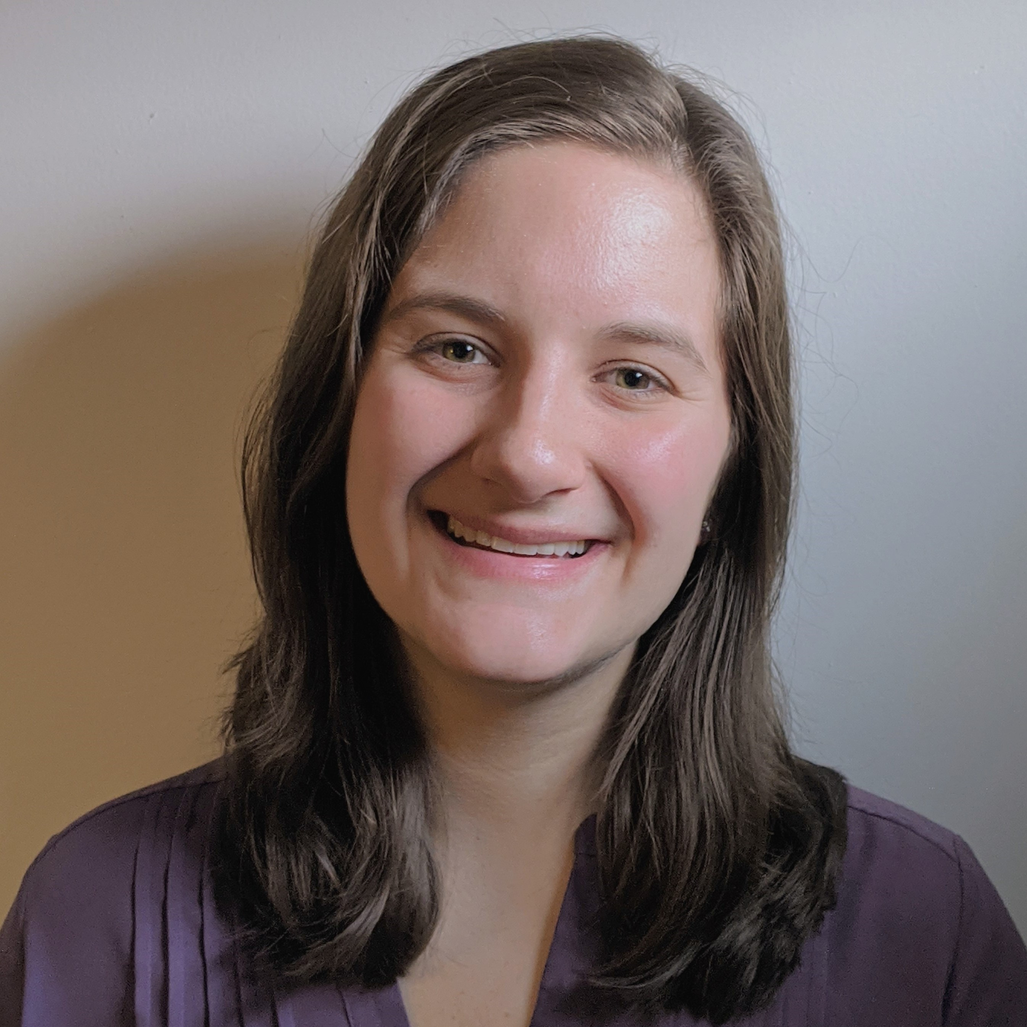
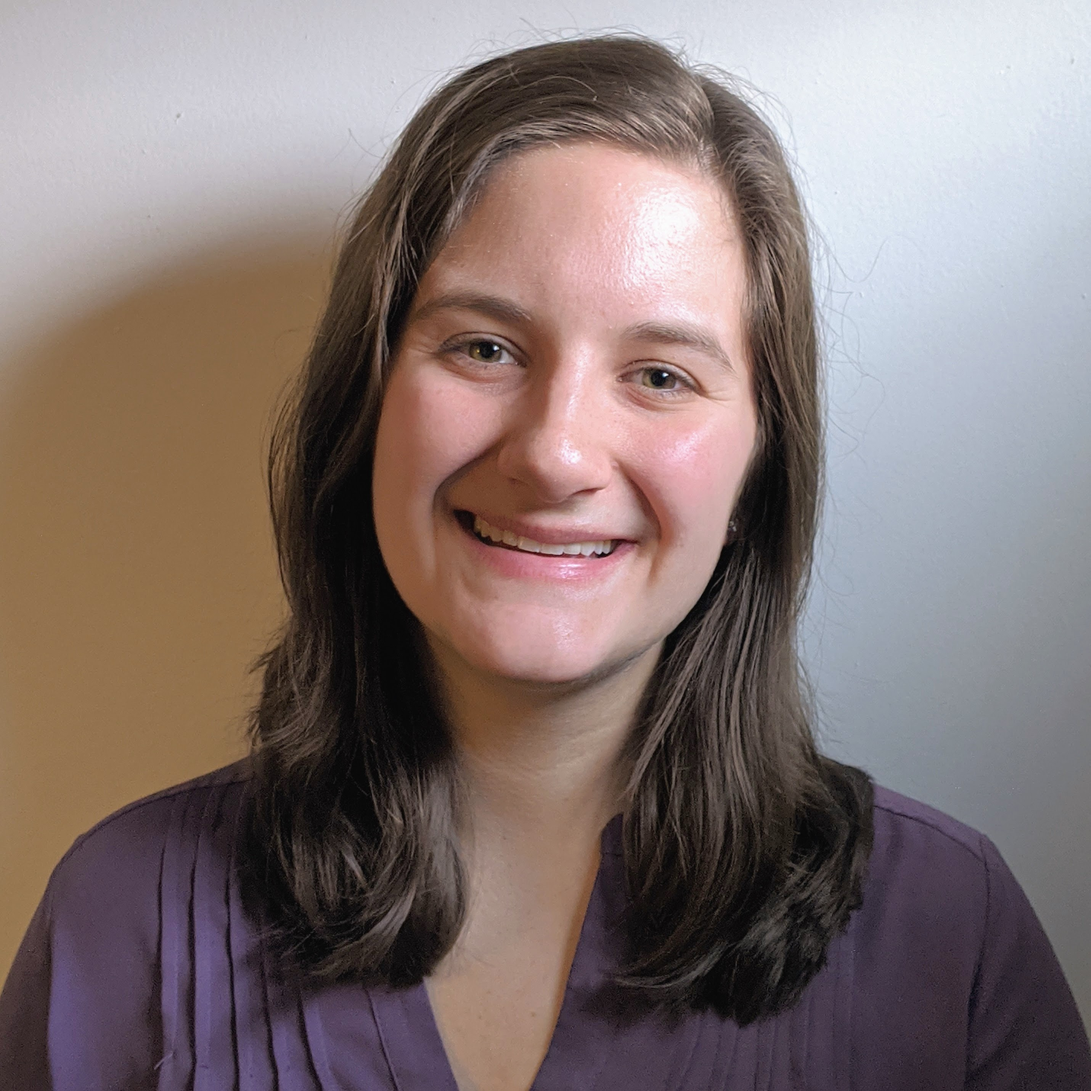
update photo

diff --git a/public/post/2015-07-23-r-rmarkdown/index.html b/public/post/2015-07-23-r-rmarkdown/index.html
@@ -684,7 +684,7 @@ Figure 1: A fancy pie chart.
   <div class="media author-card" itemscope itemtype="http://schema.org/Person">
     
       
-      <img class="portrait mr-3" src="/authors/admin/avatar_hucb4acde1650eb7f35dd36d19a230ff30_990215_250x250_fill_q90_lanczos_center.jpg" itemprop="image" alt="Avatar">
+      <img class="portrait mr-3" src="/authors/admin/avatar_hu2723e86155a1f90338e81c98aedf2ef9_773305_250x250_fill_q90_lanczos_center.jpg" itemprop="image" alt="Avatar">
     
 
     <div class="media-body">

diff --git a/public/post/jupyter/index.html b/public/post/jupyter/index.html
@@ -709,7 +709,7 @@ rm Untitled.md
   <div class="media author-card" itemscope itemtype="http://schema.org/Person">
     
       
-      <img class="portrait mr-3" src="/authors/admin/avatar_hucb4acde1650eb7f35dd36d19a230ff30_990215_250x250_fill_q90_lanczos_center.jpg" itemprop="image" alt="Avatar">
+      <img class="portrait mr-3" src="/authors/admin/avatar_hu2723e86155a1f90338e81c98aedf2ef9_773305_250x250_fill_q90_lanczos_center.jpg" itemprop="image" alt="Avatar">
     
 
     <div class="media-body">

diff --git a/public/outreachmaterials/oysteranatomy/index.html b/public/outreachmaterials/oysteranatomy/index.html
@@ -674,7 +674,7 @@
   <div class="media author-card" itemscope itemtype="http://schema.org/Person">
     
       
-      <img class="portrait mr-3" src="/authors/admin/avatar_hucb4acde1650eb7f35dd36d19a230ff30_990215_250x250_fill_q90_lanczos_center.jpg" itemprop="image" alt="Avatar">
+      <img class="portrait mr-3" src="/authors/admin/avatar_hu2723e86155a1f90338e81c98aedf2ef9_773305_250x250_fill_q90_lanczos_center.jpg" itemprop="image" alt="Avatar">
     
 
     <div class="media-body">

diff --git a/public/outreachmaterials/shinyapp_nbayoysters/index.html b/public/outreachmaterials/shinyapp_nbayoysters/index.html
@@ -676,7 +676,7 @@
   <div class="media author-card" itemscope itemtype="http://schema.org/Person">
     
       
-      <img class="portrait mr-3" src="/authors/admin/avatar_hucb4acde1650eb7f35dd36d19a230ff30_990215_250x250_fill_q90_lanczos_center.jpg" itemprop="image" alt="Avatar">
+      <img class="portrait mr-3" src="/authors/admin/avatar_hu2723e86155a1f90338e81c98aedf2ef9_773305_250x250_fill_q90_lanczos_center.jpg" itemprop="image" alt="Avatar">
     
 
     <div class="media-body">

diff --git a/public/post/getting-started/index.html b/public/post/getting-started/index.html
@@ -885,7 +885,7 @@
   <div class="media author-card" itemscope itemtype="http://schema.org/Person">
     
       
-      <img class="portrait mr-3" src="/authors/admin/avatar_hucb4acde1650eb7f35dd36d19a230ff30_990215_250x250_fill_q90_lanczos_center.jpg" itemprop="image" alt="Avatar">
+      <img class="portrait mr-3" src="/authors/admin/avatar_hu2723e86155a1f90338e81c98aedf2ef9_773305_250x250_fill_q90_lanczos_center.jpg" itemprop="image" alt="Avatar">
     
 
     <div class="media-body">

diff --git a/public/project/denitrification/index.html b/public/project/denitrification/index.html
@@ -633,7 +633,7 @@
   <div class="media author-card" itemscope itemtype="http://schema.org/Person">
     
       
-      <img class="portrait mr-3" src="/authors/admin/avatar_hucb4acde1650eb7f35dd36d19a230ff30_990215_250x250_fill_q90_lanczos_center.jpg" itemprop="image" alt="Avatar">
+      <img class="portrait mr-3" src="/authors/admin/avatar_hu2723e86155a1f90338e81c98aedf2ef9_773305_250x250_fill_q90_lanczos_center.jpg" itemprop="image" alt="Avatar">
     
 
     <div class="media-body">

diff --git a/public/project/estuarineacidification/index.html b/public/project/estuarineacidification/index.html
@@ -635,7 +635,7 @@
   <div class="media author-card" itemscope itemtype="http://schema.org/Person">
     
       
-      <img class="portrait mr-3" src="/authors/admin/avatar_hucb4acde1650eb7f35dd36d19a230ff30_990215_250x250_fill_q90_lanczos_center.jpg" itemprop="image" alt="Avatar">
+      <img class="portrait mr-3" src="/authors/admin/avatar_hu2723e86155a1f90338e81c98aedf2ef9_773305_250x250_fill_q90_lanczos_center.jpg" itemprop="image" alt="Avatar">
     
 
     <div class="media-body">

diff --git a/public/project/probiotics/index.html b/public/project/probiotics/index.html
@@ -635,7 +635,7 @@
   <div class="media author-card" itemscope itemtype="http://schema.org/Person">
     
       
-      <img class="portrait mr-3" src="/authors/admin/avatar_hucb4acde1650eb7f35dd36d19a230ff30_990215_250x250_fill_q90_lanczos_center.jpg" itemprop="image" alt="Avatar">
+      <img class="portrait mr-3" src="/authors/admin/avatar_hu2723e86155a1f90338e81c98aedf2ef9_773305_250x250_fill_q90_lanczos_center.jpg" itemprop="image" alt="Avatar">
     
 
     <div class="media-body">

diff --git a/public/project/transcriptmining/index.html b/public/project/transcriptmining/index.html
@@ -633,7 +633,7 @@
   <div class="media author-card" itemscope itemtype="http://schema.org/Person">
     
       
-      <img class="portrait mr-3" src="/authors/admin/avatar_hucb4acde1650eb7f35dd36d19a230ff30_990215_250x250_fill_q90_lanczos_center.jpg" itemprop="image" alt="Avatar">
+      <img class="portrait mr-3" src="/authors/admin/avatar_hu2723e86155a1f90338e81c98aedf2ef9_773305_250x250_fill_q90_lanczos_center.jpg" itemprop="image" alt="Avatar">
     
 
     <div class="media-body">

diff --git a/public/talks/example/index.html b/public/talks/example/index.html
@@ -704,7 +704,7 @@
   <div class="media author-card" itemscope itemtype="http://schema.org/Person">
     
       
-      <img class="portrait mr-3" src="/authors/admin/avatar_hucb4acde1650eb7f35dd36d19a230ff30_990215_250x250_fill_q90_lanczos_center.jpg" itemprop="image" alt="Avatar">
+      <img class="portrait mr-3" src="/authors/admin/avatar_hu2723e86155a1f90338e81c98aedf2ef9_773305_250x250_fill_q90_lanczos_center.jpg" itemprop="image" alt="Avatar">
     
 
     <div class="media-body">

diff --git a/public/authors/admin/index.html b/public/authors/admin/index.html
@@ -446,7 +446,7 @@
 
       
       
-      <img class="portrait" src="/authors/admin/avatar_hucb4acde1650eb7f35dd36d19a230ff30_990215_250x250_fill_q90_lanczos_center.jpg" itemprop="image" alt="Avatar">
+      <img class="portrait" src="/authors/admin/avatar_hu2723e86155a1f90338e81c98aedf2ef9_773305_250x250_fill_q90_lanczos_center.jpg" itemprop="image" alt="Avatar">
       
 
       <div class="portrait-title">

diff --git a/public/index.html b/public/index.html
@@ -484,7 +484,7 @@
 
       
       
-      <img class="portrait" src="/authors/admin/avatar_hucb4acde1650eb7f35dd36d19a230ff30_990215_250x250_fill_q90_lanczos_center.jpg" itemprop="image" alt="Avatar">
+      <img class="portrait" src="/authors/admin/avatar_hu2723e86155a1f90338e81c98aedf2ef9_773305_250x250_fill_q90_lanczos_center.jpg" itemprop="image" alt="Avatar">
       
 
       <div class="portrait-title">
